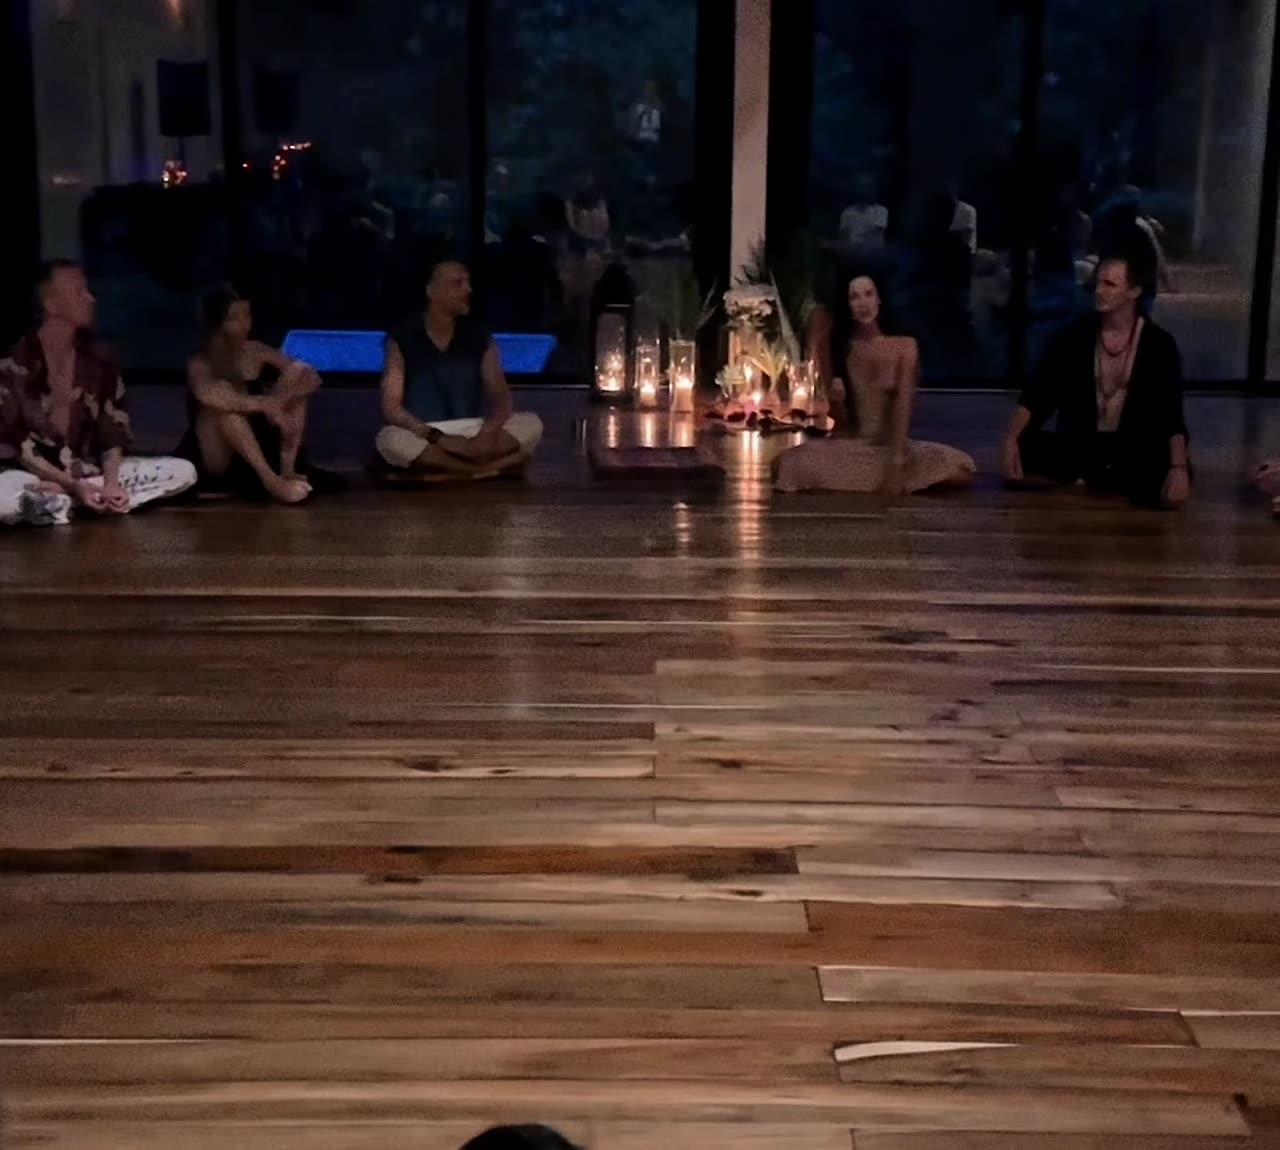
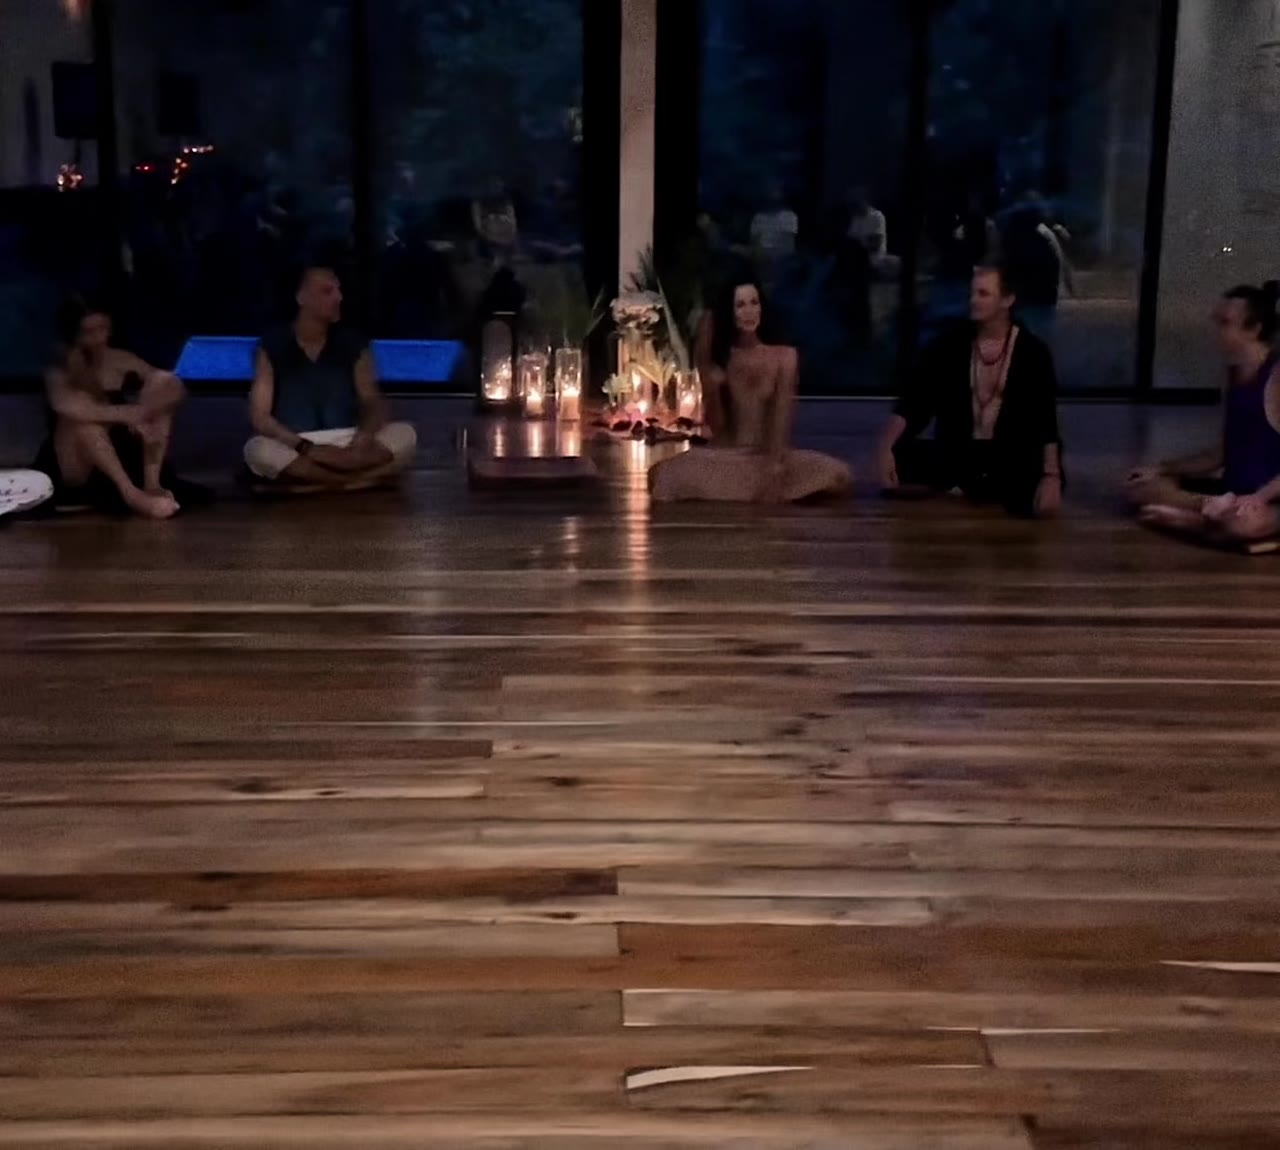
website: couples landing — Victoria photo, couple close-up, tighter spacing, support CTA, copy tweaks

diff --git a/website/orgazmichnyi-kontakt/page.css b/website/orgazmichnyi-kontakt/page.css
@@ -126,7 +126,7 @@
    OPENING — desired image
    ═════════════════════════════════════════════════════════════════ */
 .ok-opening {
-  padding: clamp(4rem, 10vh, 8rem) 1.5rem clamp(2rem, 5vh, 4rem);
+  padding: clamp(3.6rem, 9vh, 7.2rem) 1.5rem clamp(1.8rem, 4.5vh, 3.6rem);
   background: var(--c-cream);
   text-align: center;
 }
@@ -153,18 +153,23 @@
 }
 
 /* ═════════════════════════════════════════════════════════════════
-   PHOTO — hands (breathing visual)
+   PAIRED PHOTOS — hands + couple side by side
    ═════════════════════════════════════════════════════════════════ */
-.ok-photo {
-  padding: clamp(2rem, 5vh, 4rem) 1.5rem clamp(2rem, 5vh, 4rem);
+.ok-photo-pair {
+  padding: clamp(1.8rem, 4.5vh, 3.6rem) 1.5rem;
   background: var(--c-cream);
-  text-align: center;
 }
-.ok-photo__figure {
-  max-width: 34rem;
+.ok-photo-pair__inner {
+  max-width: 44rem;
   margin: 0 auto;
+  display: grid;
+  grid-template-columns: 1fr 1fr;
+  gap: 1rem;
 }
-.ok-photo__img {
+.ok-photo-pair__figure {
+  margin: 0;
+}
+.ok-photo-pair__img {
   display: block;
   width: 100%;
   height: auto;
@@ -173,12 +178,19 @@
   border-radius: 4px;
   filter: saturate(0.96) contrast(1.02);
 }
+@media (max-width: 560px) {
+  .ok-photo-pair__inner {
+    grid-template-columns: 1fr;
+    gap: 0.9rem;
+    max-width: 22rem;
+  }
+}
 
 /* ═════════════════════════════════════════════════════════════════
    TANTRA FRAME — quiet philosophical anchor
    ═════════════════════════════════════════════════════════════════ */
 .ok-frame {
-  padding: clamp(3rem, 8vh, 6rem) 1.5rem;
+  padding: clamp(2.7rem, 7.2vh, 5.4rem) 1.5rem;
   background: var(--c-cream-2);
   text-align: center;
 }
@@ -205,7 +217,7 @@
    RECOGNITION — "Для двоих, если вы"
    ═════════════════════════════════════════════════════════════════ */
 .ok-recognition {
-  padding: clamp(4rem, 9vh, 7rem) 1.5rem;
+  padding: clamp(3.6rem, 8.1vh, 6.3rem) 1.5rem;
   background: var(--c-cream);
 }
 .ok-recognition__inner {
@@ -251,7 +263,7 @@
    DAYS
    ═════════════════════════════════════════════════════════════════ */
 .ok-days {
-  padding: clamp(4rem, 9vh, 7rem) 1.5rem;
+  padding: clamp(3.6rem, 8.1vh, 6.3rem) 1.5rem;
   background: var(--c-cream-2);
 }
 .ok-days__inner {
@@ -301,7 +313,7 @@
    OUTCOMES
    ═════════════════════════════════════════════════════════════════ */
 .ok-outcomes {
-  padding: clamp(4rem, 9vh, 7rem) 1.5rem;
+  padding: clamp(3.6rem, 8.1vh, 6.3rem) 1.5rem;
   background: var(--c-cream);
 }
 .ok-outcomes__inner {
@@ -335,20 +347,20 @@
 .ok-outcomes__consequence {
   font-family: var(--serif);
   font-style: italic;
-  font-weight: 400;
-  font-size: clamp(1.1rem, 2vw, 1.3rem);
+  font-weight: 500;
+  font-size: clamp(1.15rem, 2.1vw, 1.35rem);
   line-height: 1.5;
-  color: var(--c-brass);
+  color: var(--c-charcoal);
   margin: 1.5rem 0 0;
   padding-top: 1.5rem;
-  border-top: 1px solid rgba(166,138,91,0.3);
+  border-top: 1px solid rgba(43,42,40,0.15);
 }
 
 /* ═════════════════════════════════════════════════════════════════
    FORMAT
    ═════════════════════════════════════════════════════════════════ */
 .ok-format {
-  padding: clamp(4rem, 9vh, 7rem) 1.5rem;
+  padding: clamp(3.6rem, 8.1vh, 6.3rem) 1.5rem;
   background: var(--c-cream-2);
   text-align: center;
 }
@@ -377,12 +389,20 @@
   font-style: italic;
   margin: 1rem 0 0;
 }
+.ok-format__note--strong {
+  font-family: var(--serif);
+  font-style: italic;
+  font-size: clamp(1rem, 1.6vw, 1.15rem);
+  color: var(--c-brass);
+  letter-spacing: 0;
+  margin-top: 0.65rem;
+}
 
 /* ═════════════════════════════════════════════════════════════════
    CIRCLE PHOTO
    ═════════════════════════════════════════════════════════════════ */
 .ok-circle {
-  padding: clamp(3rem, 8vh, 6rem) 1.5rem clamp(2rem, 4vh, 3rem);
+  padding: clamp(2.7rem, 7.2vh, 5.4rem) 1.5rem clamp(1.8rem, 3.6vh, 2.7rem);
   background: var(--c-cream);
   text-align: center;
 }
@@ -412,13 +432,26 @@
    ABOUT ME
    ═════════════════════════════════════════════════════════════════ */
 .ok-about {
-  padding: clamp(3rem, 7vh, 5rem) 1.5rem clamp(5rem, 10vh, 7rem);
+  padding: clamp(2.7rem, 6.3vh, 4.5rem) 1.5rem clamp(4.5rem, 9vh, 6.3rem);
   background: var(--c-cream);
 }
 .ok-about__inner {
   max-width: 40rem;
   margin: 0 auto;
   text-align: center;
+}
+.ok-about__figure {
+  max-width: 20rem;
+  margin: 0 auto 2rem;
+}
+.ok-about__img {
+  display: block;
+  width: 100%;
+  height: auto;
+  aspect-ratio: 4 / 5;
+  object-fit: cover;
+  border-radius: 4px;
+  filter: saturate(0.96) contrast(1.02);
 }
 .ok-about__lede {
   font-family: var(--serif);
@@ -458,7 +491,7 @@
    FINAL CTA
    ═════════════════════════════════════════════════════════════════ */
 .ok-final {
-  padding: clamp(4rem, 10vh, 7rem) 1.5rem clamp(4rem, 10vh, 7rem);
+  padding: clamp(3.6rem, 9vh, 6.3rem) 1.5rem clamp(3.6rem, 9vh, 6.3rem);
   background: var(--c-cream-2);
   text-align: center;
 }
@@ -483,21 +516,22 @@
 }
 .ok-final__title {
   font-family: var(--sans);
-  font-size: 11px;
+  font-size: 12px;
   letter-spacing: 0.24em;
   text-transform: uppercase;
-  color: var(--c-brass);
+  color: var(--c-charcoal);
+  font-weight: 500;
   margin: 0 0 0.75rem;
 }
 .ok-final__row {
   font-family: var(--serif);
-  font-weight: 300;
-  font-size: clamp(1.1rem, 1.9vw, 1.25rem);
+  font-weight: 400;
+  font-size: clamp(1.15rem, 1.95vw, 1.3rem);
   color: var(--c-charcoal);
   margin: 0.4rem 0;
 }
 .ok-final__price {
-  font-weight: 500;
+  font-weight: 600;
   color: var(--c-charcoal);
 }
 .ok-final__tiny {
@@ -506,6 +540,27 @@
   font-size: 11px;
   color: var(--c-charcoal-soft, #5C5850);
   font-style: italic;
+}
+
+/* Support link under final CTA */
+.ok-support {
+  display: inline-block;
+  margin-top: 1.5rem;
+  font-family: var(--sans);
+  font-size: 12px;
+  letter-spacing: 0.15em;
+  text-transform: uppercase;
+  color: var(--c-brass);
+  text-decoration: none;
+  padding: 0.55rem 1.25rem;
+  border: 1px solid rgba(166,138,91,0.4);
+  border-radius: 999px;
+  transition: color 0.25s ease, border-color 0.25s ease, background 0.25s ease;
+}
+.ok-support:hover {
+  color: var(--c-cream);
+  background: var(--c-brass);
+  border-color: var(--c-brass);
 }
 
 /* ═════════════════════════════════════════════════════════════════

diff --git a/website/orgazmichnyi-kontakt/index.html b/website/orgazmichnyi-kontakt/index.html
@@ -102,7 +102,7 @@
       </p>
 
       <a href="#zapis" class="ok-cta ok-cta--hero">
-        Записаться вдвоём
+        Хочу попробовать
       </a>
     </div>
   </section>
@@ -126,17 +126,27 @@
   </section>
 
   <!-- ═══════════════════════════════════════════════════════════════ -->
-  <!-- HANDS PHOTO — visual break -->
+  <!-- PAIRED PHOTOS — hands + couple close-up -->
   <!-- ═══════════════════════════════════════════════════════════════ -->
-  <section class="ok-photo" data-reveal>
-    <figure class="ok-photo__figure">
-      <img
-        src="assets/hands.jpg"
-        alt="Две руки соприкасаются кончиками пальцев в тёплом свете"
-        class="ok-photo__img"
-        loading="lazy"
-      />
-    </figure>
+  <section class="ok-photo-pair" data-reveal>
+    <div class="ok-photo-pair__inner">
+      <figure class="ok-photo-pair__figure">
+        <img
+          src="assets/hands.jpg"
+          alt="Две руки соприкасаются кончиками пальцев в тёплом свете"
+          class="ok-photo-pair__img"
+          loading="lazy"
+        />
+      </figure>
+      <figure class="ok-photo-pair__figure">
+        <img
+          src="assets/couple.jpg"
+          alt="Пара смотрит друг другу в глаза в тёплом свете"
+          class="ok-photo-pair__img"
+          loading="lazy"
+        />
+      </figure>
+    </div>
   </section>
 
   <!-- ═══════════════════════════════════════════════════════════════ -->
@@ -241,6 +251,9 @@
       <p class="ok-format__note">
         Практикум подойдёт и&nbsp;парам, которые давно вместе, и&nbsp;тем, кто только начинает.
       </p>
+      <p class="ok-format__note ok-format__note--strong">
+        Даже если вы&nbsp;не&nbsp;практиковали тантру&nbsp;— этот практикум раскроет новые грани.
+      </p>
     </div>
   </section>
 
@@ -264,14 +277,25 @@
   <section class="ok-about" data-reveal>
     <div class="ok-about__inner">
       <h2 class="ok-h2 ok-h2--center">Обо мне</h2>
+
+      <figure class="ok-about__figure">
+        <img
+          src="assets/victoria.jpg"
+          alt="Виктория, проводник Аутентичной Тантры"
+          class="ok-about__img"
+          loading="lazy"
+        />
+      </figure>
+
       <p class="ok-about__lede">
         <strong>Виктория.</strong> Проводник Аутентичной Тантры.
       </p>
       <ul class="ok-about__list">
         <li>10+&nbsp;лет ежедневной практики с&nbsp;пяти утра</li>
-        <li>Прямая передача от&nbsp;мастеров живых линий Каула и&nbsp;Тибетской традиции</li>
-        <li>Ученица Пемы Гитамы</li>
-        <li>Более 3&nbsp;000 человек прошли через мою практику</li>
+        <li>Прямая передача древних знаний от&nbsp;мастеров тантрической линии Каула и&nbsp;Тибетской традиции</li>
+        <li>Ученица Пемы Гитамы и&nbsp;часть её команды</li>
+        <li>Ведущая ретритов, живых классов, онлайн-программ и&nbsp;персональных сессий</li>
+        <li>Более 3&nbsp;000 человек прошли через мои практики</li>
         <li>До&nbsp;тантры&nbsp;— 12&nbsp;лет топ-менеджмент IT-корпорации: миллиардные проекты, идеальная жизнь снаружи, пусто внутри. Так десять лет назад ко&nbsp;мне пришла тантра.</li>
       </ul>
     </div>
@@ -297,8 +321,12 @@
       </a>
 
       <p class="ok-final__tiny">
-        После записи мы отправим детали и&nbsp;ссылку на&nbsp;первую встречу.
+        После регистрации мы отправим детали и&nbsp;ссылку на&nbsp;первую встречу.
       </p>
+
+      <a href="mailto:9261501111v@gmail.com?subject=Оргазмичный%20Контакт%20—%20вопрос" class="ok-support">
+        Остались вопросы? · Служба поддержки
+      </a>
     </div>
   </section>
 
